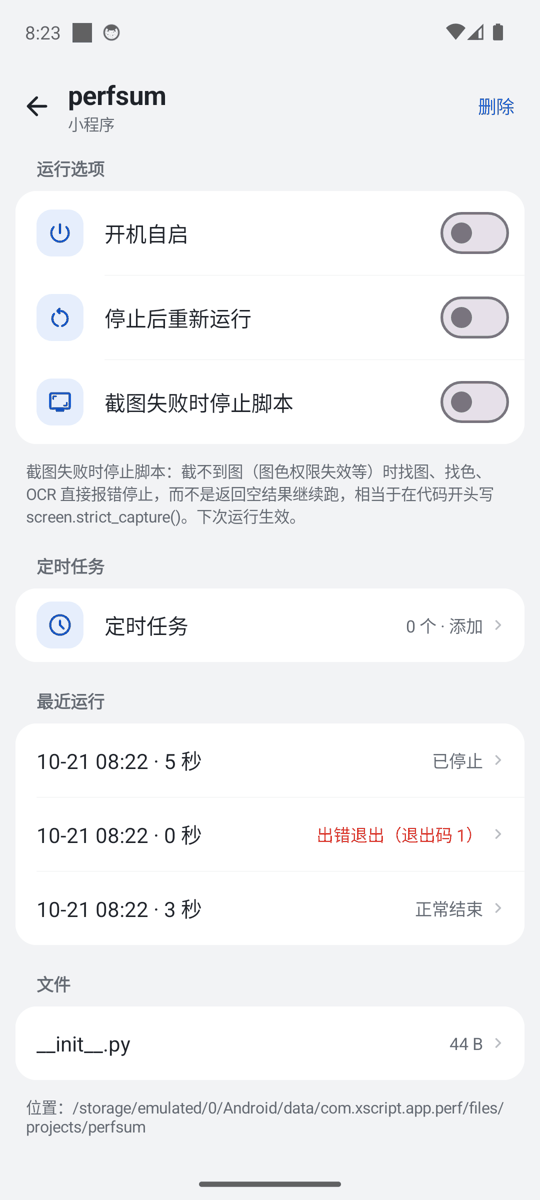
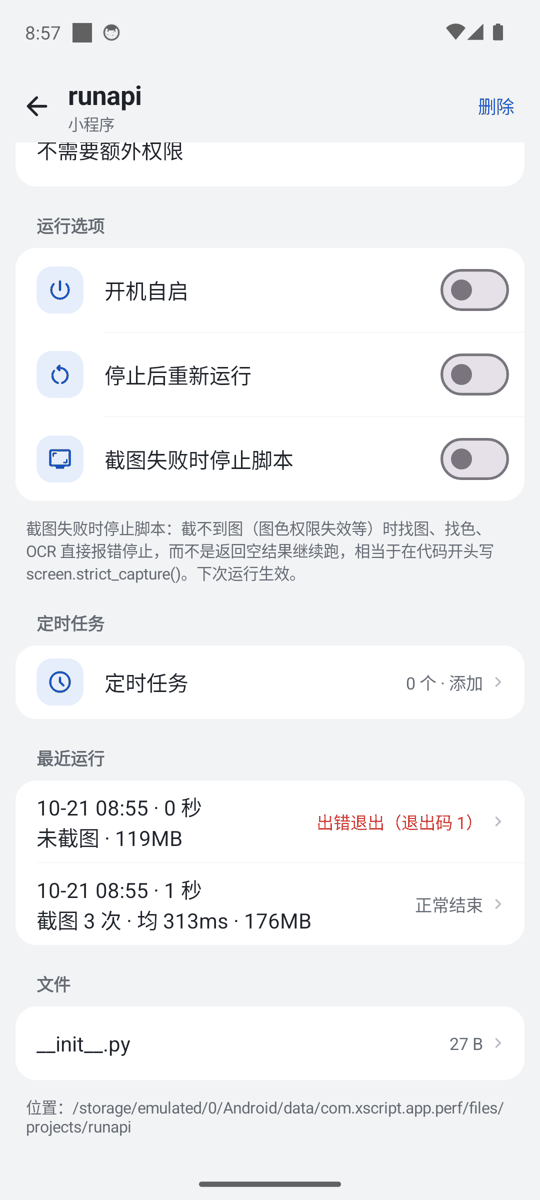
docs: run stats in recent runs and the runs endpoint

diff --git a/docs/使用手册.md b/docs/使用手册.md
@@ -105,7 +105,7 @@ python3 scripts/device_float_e2e.py emulator-5554 http://127.0.0.1:19860   # 134
 
   ![小程序详情页的运行选项：截图失败时停止脚本已打开](images/phone-run-options-strict-capture.png)
 
-- **最近运行**：详情页列出这个小程序最近 5 次运行（手机上保存最近 20 次）：开始时间、用了多久、怎么结束的（正常结束 / 已停止 / 出错退出（退出码 N）/ 进程意外退出，出错的标红）。点一行打开那一次运行的日志，只显示那次的输出；日志被清空或被新日志挤掉时会说明。
+- **最近运行**：详情页列出这个小程序最近 5 次运行（手机上保存最近 20 次）：开始时间、用了多久、怎么结束的（正常结束 / 已停止 / 出错退出（退出码 N）/ 进程意外退出，出错的标红）；脚本自己结束的运行还有第二行：截了几次图、平均每次多久、峰值内存（来自日志末尾的「运行统计」行，点停止的运行没有）。电脑端可以用 HTTP `GET /projects/<名称>/runs` 读同样的记录（见 `protocol/openapi.yaml`）。点一行打开那一次运行的日志，只显示那次的输出；日志被清空或被新日志挤掉时会说明。
 
   ![小程序详情页的最近运行：一次停止、一次出错退出、一次正常结束](images/phone-run-history.png)
 
